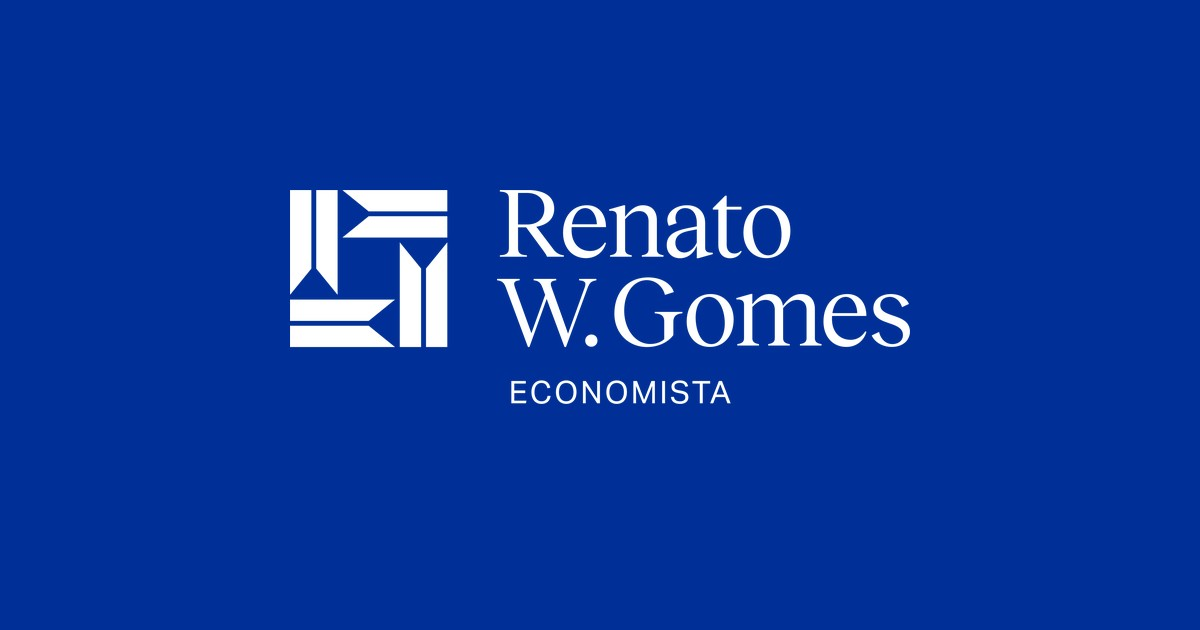
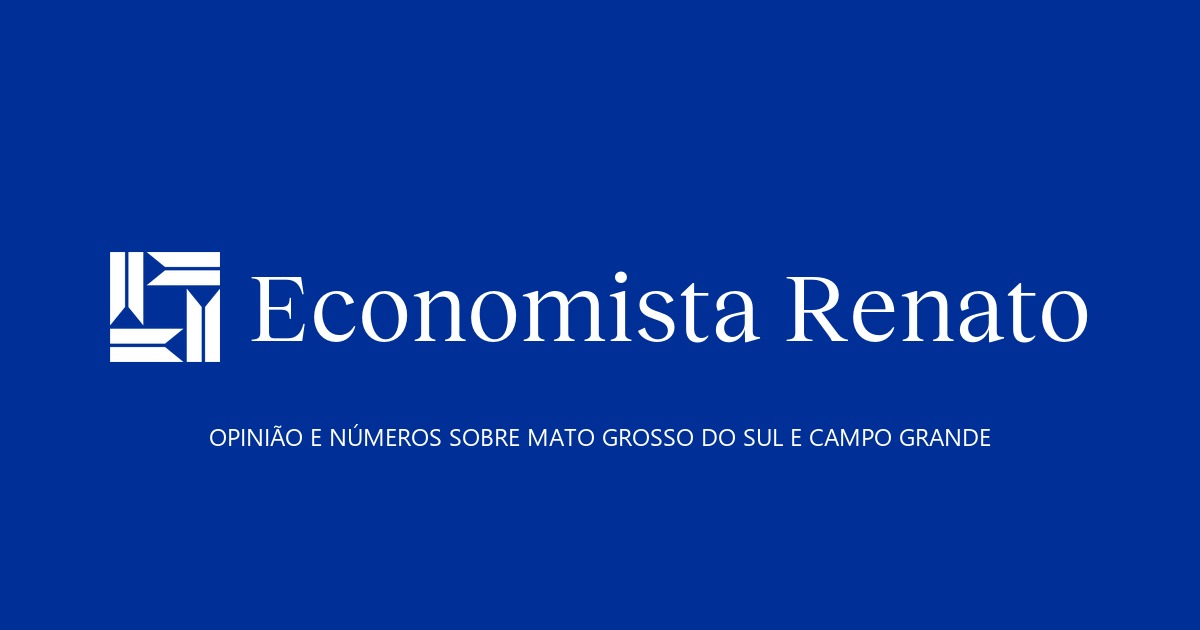
Marca da publicacao passa a ser 'Economista Renato'
E o nome pelo qual ele e conhecido — e o mesmo do dominio e do @. O lockup
antigo (monograma + 'Renato W. Gomes' + tagline ECONOMISTA) saiu do topo das
paginas.

- Novo lockup: monograma do kit + 'Economista Renato' composto em Reckless
  Neue como texto vivo, nao imagem. Versao compacta nas paginas internas e no
  rodape.
- Boletins renomeados: 'Boletim do Economista - Diario Oficial' e
  'Boletim do Economista - Economia de MS'.
- Imagem de Open Graph refeita com o novo nome.
- Navegacao unificada em todas as paginas: Capa, A Coluna, Boletins,
  Bases abertas, Sobre.

O nome civil segue na assinatura das materias e no rodape institucional.

Changed region(s): [[0.2158, 0.3016, 0.925, 0.573], [0.185, 0.6032, 0.8325, 0.7238], [0.0925, 0.3921, 0.185, 0.573]]

diff --git a/site/index.html b/site/index.html
@@ -20,7 +20,7 @@
 <link rel="preconnect" href="https://fonts.gstatic.com" crossorigin>
 <link href="https://fonts.googleapis.com/css2?family=Inter:wght@400;500;600;700&family=Newsreader:ital,opsz,wght@0,6..72,300..700;1,6..72,300..600&display=swap" rel="stylesheet">
 <link rel="preload" href="assets/fontes/reckless-neue-regular.woff2" as="font" type="font/woff2" crossorigin>
-<link rel="stylesheet" href="assets/estilo.css?v=20260927">
+<link rel="stylesheet" href="assets/estilo.css?v=20260927b">
 </head>
 <body>
 
@@ -35,7 +35,7 @@
 
   <div class="env">
     <div class="cabecalho">
-      <a href="/"><img class="marca" src="assets/marca-wordmark.png" alt="Renato W. Gomes — Economista"></a>
+      <a class="marca-lockup" href="/"><img class="marca-simbolo" src="assets/monograma.png" alt=""><span class="marca-nome">Economista Renato</span></a>
       <div class="lema">Opinião e números sobre Mato Grosso do Sul e Campo Grande</div>
       <div class="canto">
         <a class="botao" href="sobre/">Quem sou</a>
@@ -94,14 +94,14 @@
 
   <section class="grade-3">
     <article class="cartao produto">
-      <span class="chapeu">Boletim RWG · Diário Oficial</span>
+      <span class="chapeu">Boletim do Economista · Diário Oficial</span>
       <h3 class="tit tit-g">O que saiu no Diário Oficial da semana</h3>
       <p class="olho">Contrato, aditivo, dispensa de licitação, nomeação e decreto — do governo do estado, da prefeitura de Campo Grande, do Tribunal de Contas e da Assembleia. O que acontece com o dinheiro público antes de virar notícia.</p>
       <span class="selo">Semanal · às sextas</span>
     </article>
 
     <article class="cartao produto">
-      <span class="chapeu dado">Boletim RWG · Economia de MS</span>
+      <span class="chapeu dado">Boletim do Economista · Economia de MS</span>
       <h3 class="tit tit-g">O termômetro da economia do estado</h3>
       <p class="olho">Emprego, arrecadação, preços e comércio exterior, com quadro fixo de Campo Grande e uma região do interior em destaque a cada edição — as quatro regiões, três vezes por ano cada uma.</p>
       <span class="selo">Mensal</span>
@@ -170,7 +170,7 @@
   <div class="env">
     <div class="rodape-grade">
       <div class="rodape-marca">
-        <img src="assets/marca-wordmark.png" alt="Renato W. Gomes — Economista">
+        <a class="marca-lockup compacta" href="/"><img class="marca-simbolo" src="assets/monograma.png" alt=""><span class="marca-nome">Economista Renato</span></a>
         <p class="rodape-texto">Análise independente sobre a economia e as contas públicas de Mato Grosso do Sul. Toda afirmação numérica publicada aqui traz a fonte primária: orçamento, Diário Oficial, portais de transparência, IBGE e órgãos de controle.</p>
       </div>
       <div>

diff --git a/site/artigo/estreia/index.html b/site/artigo/estreia/index.html
@@ -19,22 +19,23 @@
 <link rel="preconnect" href="https://fonts.gstatic.com" crossorigin>
 <link href="https://fonts.googleapis.com/css2?family=Inter:wght@400;500;600;700&family=Newsreader:ital,opsz,wght@0,6..72,300..700;1,6..72,300..600&display=swap" rel="stylesheet">
 <link rel="preload" href="../../assets/fontes/reckless-neue-regular.woff2" as="font" type="font/woff2" crossorigin>
-<link rel="stylesheet" href="../../assets/estilo.css?v=20260927">
+<link rel="stylesheet" href="../../assets/estilo.css?v=20260927b">
 </head>
 <body>
 
 <header>
   <div class="env">
     <div class="cabecalho" style="padding:18px 0 14px">
-      <a href="../../"><img class="marca" src="../../assets/marca-wordmark.png" alt="Renato W. Gomes — Economista" style="width:min(240px,60vw)"></a>
+      <a class="marca-lockup compacta" href="../../"><img class="marca-simbolo" src="../../assets/monograma.png" alt=""><span class="marca-nome">Economista Renato</span></a>
     </div>
   </div>
   <nav class="secoes">
     <div class="env">
       <a href="../../">Capa</a>
-      <a href="./" class="ativo">A coluna</a>
-      <a href="../../#dados">MS em números</a>
-      <a href="../../#pautas">Pautas</a>
+      <a href="./" class="ativo">A Coluna</a>
+      <a href="../../#boletins">Boletins</a>
+      <a href="../../dados/">Bases abertas</a>
+      
       <a href="../../sobre/">Sobre</a>
     </div>
   </nav>
@@ -80,8 +81,8 @@
     <p>Três lugares fixos, para você saber o que esperar e quando:</p>
 
     <ul>
-      <li><b>Boletim RWG · Diário Oficial</b>, toda sexta. O que saiu nos diários do governo do estado, da prefeitura de Campo Grande, do Tribunal de Contas e da Assembleia: contrato, aditivo, dispensa de licitação, nomeação, decreto. É o lugar onde o dinheiro público aparece antes de virar notícia.</li>
-      <li><b>Boletim RWG · Economia de MS</b>, todo mês. Emprego, arrecadação, preços e comércio exterior, com um quadro fixo da capital e uma região do interior em destaque a cada edição.</li>
+      <li><b>Boletim do Economista · Diário Oficial</b>, toda sexta. O que saiu nos diários do governo do estado, da prefeitura de Campo Grande, do Tribunal de Contas e da Assembleia: contrato, aditivo, dispensa de licitação, nomeação, decreto. É o lugar onde o dinheiro público aparece antes de virar notícia.</li>
+      <li><b>Boletim do Economista · Economia de MS</b>, todo mês. Emprego, arrecadação, preços e comércio exterior, com um quadro fixo da capital e uma região do interior em destaque a cada edição.</li>
       <li><b>A Coluna</b>, toda semana. A análise assinada — onde fica a opinião, e só ali.</li>
     </ul>
 

diff --git a/site/dados/icms-gondola-ms/index.html b/site/dados/icms-gondola-ms/index.html
@@ -19,22 +19,22 @@
 <link rel="preconnect" href="https://fonts.gstatic.com" crossorigin>
 <link href="https://fonts.googleapis.com/css2?family=Inter:wght@400;500;600;700&family=Newsreader:ital,opsz,wght@0,6..72,300..700;1,6..72,300..600&display=swap" rel="stylesheet">
 <link rel="preload" href="../../assets/fontes/reckless-neue-regular.woff2" as="font" type="font/woff2" crossorigin>
-<link rel="stylesheet" href="../../assets/estilo.css?v=20260927">
+<link rel="stylesheet" href="../../assets/estilo.css?v=20260927b">
 </head>
 <body>
 
 <header>
   <div class="env">
     <div class="cabecalho" style="padding:18px 0 14px">
-      <a href="../../"><img class="marca" src="../../assets/marca-wordmark.png" alt="Renato W. Gomes — Economista" style="width:min(240px,60vw)"></a>
+      <a class="marca-lockup compacta" href="../../"><img class="marca-simbolo" src="../../assets/monograma.png" alt=""><span class="marca-nome">Economista Renato</span></a>
     </div>
   </div>
   <nav class="secoes">
     <div class="env">
       <a href="../../">Capa</a>
-      <a href="../../artigo/estreia/">A coluna</a>
+      <a href="../../artigo/estreia/">A Coluna</a>
+      <a href="../../#boletins">Boletins</a>
       <a href="../../dados/" class="ativo">Bases abertas</a>
-      <a href="../../#pautas">Pautas</a>
       <a href="../../sobre/">Sobre</a>
     </div>
   </nav>
@@ -81,7 +81,7 @@
   </div>
 </article>
 
-<script src="../../assets/tabela.js?v=20260927"></script>
+<script src="../../assets/tabela.js?v=20260927b"></script>
 
 <footer>
   <div class="env">

diff --git a/site/dados/municipios-ms/index.html b/site/dados/municipios-ms/index.html
@@ -19,22 +19,22 @@
 <link rel="preconnect" href="https://fonts.gstatic.com" crossorigin>
 <link href="https://fonts.googleapis.com/css2?family=Inter:wght@400;500;600;700&family=Newsreader:ital,opsz,wght@0,6..72,300..700;1,6..72,300..600&display=swap" rel="stylesheet">
 <link rel="preload" href="../../assets/fontes/reckless-neue-regular.woff2" as="font" type="font/woff2" crossorigin>
-<link rel="stylesheet" href="../../assets/estilo.css?v=20260927">
+<link rel="stylesheet" href="../../assets/estilo.css?v=20260927b">
 </head>
 <body>
 
 <header>
   <div class="env">
     <div class="cabecalho" style="padding:18px 0 14px">
-      <a href="../../"><img class="marca" src="../../assets/marca-wordmark.png" alt="Renato W. Gomes — Economista" style="width:min(240px,60vw)"></a>
+      <a class="marca-lockup compacta" href="../../"><img class="marca-simbolo" src="../../assets/monograma.png" alt=""><span class="marca-nome">Economista Renato</span></a>
     </div>
   </div>
   <nav class="secoes">
     <div class="env">
       <a href="../../">Capa</a>
-      <a href="../../artigo/estreia/">A coluna</a>
+      <a href="../../artigo/estreia/">A Coluna</a>
+      <a href="../../#boletins">Boletins</a>
       <a href="../../dados/" class="ativo">Bases abertas</a>
-      <a href="../../#pautas">Pautas</a>
       <a href="../../sobre/">Sobre</a>
     </div>
   </nav>
@@ -81,7 +81,7 @@
   </div>
 </article>
 
-<script src="../../assets/tabela.js?v=20260927"></script>
+<script src="../../assets/tabela.js?v=20260927b"></script>
 
 <footer>
   <div class="env">

diff --git a/site/dados/renuncia-fiscal-ms-2026/index.html b/site/dados/renuncia-fiscal-ms-2026/index.html
@@ -19,22 +19,22 @@
 <link rel="preconnect" href="https://fonts.gstatic.com" crossorigin>
 <link href="https://fonts.googleapis.com/css2?family=Inter:wght@400;500;600;700&family=Newsreader:ital,opsz,wght@0,6..72,300..700;1,6..72,300..600&display=swap" rel="stylesheet">
 <link rel="preload" href="../../assets/fontes/reckless-neue-regular.woff2" as="font" type="font/woff2" crossorigin>
-<link rel="stylesheet" href="../../assets/estilo.css?v=20260927">
+<link rel="stylesheet" href="../../assets/estilo.css?v=20260927b">
 </head>
 <body>
 
 <header>
   <div class="env">
     <div class="cabecalho" style="padding:18px 0 14px">
-      <a href="../../"><img class="marca" src="../../assets/marca-wordmark.png" alt="Renato W. Gomes — Economista" style="width:min(240px,60vw)"></a>
+      <a class="marca-lockup compacta" href="../../"><img class="marca-simbolo" src="../../assets/monograma.png" alt=""><span class="marca-nome">Economista Renato</span></a>
     </div>
   </div>
   <nav class="secoes">
     <div class="env">
       <a href="../../">Capa</a>
-      <a href="../../artigo/estreia/">A coluna</a>
+      <a href="../../artigo/estreia/">A Coluna</a>
+      <a href="../../#boletins">Boletins</a>
       <a href="../../dados/" class="ativo">Bases abertas</a>
-      <a href="../../#pautas">Pautas</a>
       <a href="../../sobre/">Sobre</a>
     </div>
   </nav>
@@ -81,7 +81,7 @@
   </div>
 </article>
 
-<script src="../../assets/tabela.js?v=20260927"></script>
+<script src="../../assets/tabela.js?v=20260927b"></script>
 
 <footer>
   <div class="env">

diff --git a/site/dados/rodovias-ms/index.html b/site/dados/rodovias-ms/index.html
@@ -19,22 +19,22 @@
 <link rel="preconnect" href="https://fonts.gstatic.com" crossorigin>
 <link href="https://fonts.googleapis.com/css2?family=Inter:wght@400;500;600;700&family=Newsreader:ital,opsz,wght@0,6..72,300..700;1,6..72,300..600&display=swap" rel="stylesheet">
 <link rel="preload" href="../../assets/fontes/reckless-neue-regular.woff2" as="font" type="font/woff2" crossorigin>
-<link rel="stylesheet" href="../../assets/estilo.css?v=20260927">
+<link rel="stylesheet" href="../../assets/estilo.css?v=20260927b">
 </head>
 <body>
 
 <header>
   <div class="env">
     <div class="cabecalho" style="padding:18px 0 14px">
-      <a href="../../"><img class="marca" src="../../assets/marca-wordmark.png" alt="Renato W. Gomes — Economista" style="width:min(240px,60vw)"></a>
+      <a class="marca-lockup compacta" href="../../"><img class="marca-simbolo" src="../../assets/monograma.png" alt=""><span class="marca-nome">Economista Renato</span></a>
     </div>
   </div>
   <nav class="secoes">
     <div class="env">
       <a href="../../">Capa</a>
-      <a href="../../artigo/estreia/">A coluna</a>
+      <a href="../../artigo/estreia/">A Coluna</a>
+      <a href="../../#boletins">Boletins</a>
       <a href="../../dados/" class="ativo">Bases abertas</a>
-      <a href="../../#pautas">Pautas</a>
       <a href="../../sobre/">Sobre</a>
     </div>
   </nav>
@@ -81,7 +81,7 @@
   </div>
 </article>
 
-<script src="../../assets/tabela.js?v=20260927"></script>
+<script src="../../assets/tabela.js?v=20260927b"></script>
 
 <footer>
   <div class="env">

diff --git a/site/sobre/index.html b/site/sobre/index.html
@@ -19,22 +19,23 @@
 <link rel="preconnect" href="https://fonts.gstatic.com" crossorigin>
 <link href="https://fonts.googleapis.com/css2?family=Inter:wght@400;500;600;700&family=Newsreader:ital,opsz,wght@0,6..72,300..700;1,6..72,300..600&display=swap" rel="stylesheet">
 <link rel="preload" href="../assets/fontes/reckless-neue-regular.woff2" as="font" type="font/woff2" crossorigin>
-<link rel="stylesheet" href="../assets/estilo.css?v=20260927">
+<link rel="stylesheet" href="../assets/estilo.css?v=20260927b">
 </head>
 <body>
 
 <header>
   <div class="env">
     <div class="cabecalho" style="padding:18px 0 14px">
-      <a href="../"><img class="marca" src="../assets/marca-wordmark.png" alt="Renato W. Gomes — Economista" style="width:min(240px,60vw)"></a>
+      <a class="marca-lockup compacta" href="../"><img class="marca-simbolo" src="../assets/monograma.png" alt=""><span class="marca-nome">Economista Renato</span></a>
     </div>
   </div>
   <nav class="secoes">
     <div class="env">
       <a href="../">Capa</a>
-      <a href="../artigo/estreia/">A coluna</a>
-      <a href="../#dados">MS em números</a>
-      <a href="../#pautas">Pautas</a>
+      <a href="../artigo/estreia/">A Coluna</a>
+      <a href="../#boletins">Boletins</a>
+      <a href="../dados/">Bases abertas</a>
+      
       <a href="./" class="ativo">Sobre</a>
     </div>
   </nav>

diff --git a/site/dados/index.html b/site/dados/index.html
@@ -19,22 +19,22 @@
 <link rel="preconnect" href="https://fonts.gstatic.com" crossorigin>
 <link href="https://fonts.googleapis.com/css2?family=Inter:wght@400;500;600;700&family=Newsreader:ital,opsz,wght@0,6..72,300..700;1,6..72,300..600&display=swap" rel="stylesheet">
 <link rel="preload" href="../assets/fontes/reckless-neue-regular.woff2" as="font" type="font/woff2" crossorigin>
-<link rel="stylesheet" href="../assets/estilo.css?v=20260927">
+<link rel="stylesheet" href="../assets/estilo.css?v=20260927b">
 </head>
 <body>
 
 <header>
   <div class="env">
     <div class="cabecalho" style="padding:18px 0 14px">
-      <a href="../"><img class="marca" src="../assets/marca-wordmark.png" alt="Renato W. Gomes — Economista" style="width:min(240px,60vw)"></a>
+      <a class="marca-lockup compacta" href="../"><img class="marca-simbolo" src="../assets/monograma.png" alt=""><span class="marca-nome">Economista Renato</span></a>
     </div>
   </div>
   <nav class="secoes">
     <div class="env">
       <a href="../">Capa</a>
-      <a href="../artigo/estreia/">A coluna</a>
+      <a href="../artigo/estreia/">A Coluna</a>
+      <a href="../#boletins">Boletins</a>
       <a href="../dados/" class="ativo">Bases abertas</a>
-      <a href="../#pautas">Pautas</a>
       <a href="../sobre/">Sobre</a>
     </div>
   </nav>

diff --git a/site/assets/estilo.css b/site/assets/estilo.css
@@ -446,3 +446,19 @@ footer{border-top:2px solid var(--tinta);margin-top:56px;padding:38px 0 60px}
 @media(max-width:1080px){
   .capa-dupla{grid-template-columns:1fr}
 }
+
+/* ==========================================================================
+   LOCKUP DA PUBLICACAO — monograma + "Economista Renato" na letra da marca
+   ========================================================================== */
+.marca-lockup{display:inline-flex;align-items:center;gap:clamp(10px,1.4vw,18px);text-decoration:none}
+.marca-simbolo{width:clamp(36px,4.6vw,52px);height:auto;flex:none}
+.marca-nome{
+  font-family:var(--display);font-weight:400;font-synthesis-weight:none;
+  font-size:clamp(1.9rem,4.4vw,3.1rem);line-height:1;letter-spacing:-.022em;color:var(--tinta);
+  white-space:nowrap;
+}
+.marca-lockup.compacta .marca-simbolo{width:30px}
+.marca-lockup.compacta .marca-nome{font-size:clamp(1.25rem,3vw,1.6rem)}
+.rodape-marca .marca-lockup{margin-bottom:14px}
+.rodape-marca .marca-simbolo{width:28px}
+.rodape-marca .marca-nome{font-size:1.4rem}

diff --git a/site/obrigado/index.html b/site/obrigado/index.html
@@ -10,14 +10,14 @@
 <link rel="preconnect" href="https://fonts.gstatic.com" crossorigin>
 <link href="https://fonts.googleapis.com/css2?family=Inter:wght@400;500;600;700&family=Newsreader:ital,opsz,wght@0,6..72,300..700;1,6..72,300..600&display=swap" rel="stylesheet">
 <link rel="preload" href="../assets/fontes/reckless-neue-regular.woff2" as="font" type="font/woff2" crossorigin>
-<link rel="stylesheet" href="../assets/estilo.css?v=20260927">
+<link rel="stylesheet" href="../assets/estilo.css?v=20260927b">
 </head>
 <body>
 
 <header>
   <div class="env">
     <div class="cabecalho" style="padding:18px 0 14px">
-      <a href="../"><img class="marca" src="../assets/marca-wordmark.png" alt="Renato W. Gomes — Economista" style="width:min(240px,60vw)"></a>
+      <a class="marca-lockup compacta" href="../"><img class="marca-simbolo" src="../assets/monograma.png" alt=""><span class="marca-nome">Economista Renato</span></a>
     </div>
   </div>
 </header>

diff --git a/scripts/gera_dados.py b/scripts/gera_dados.py
@@ -368,22 +368,22 @@ CABECA = u"""<!DOCTYPE html>
 <link rel="preconnect" href="https://fonts.gstatic.com" crossorigin>
 <link href="https://fonts.googleapis.com/css2?family=Inter:wght@400;500;600;700&family=Newsreader:ital,opsz,wght@0,6..72,300..700;1,6..72,300..600&display=swap" rel="stylesheet">
 <link rel="preload" href="{r}assets/fontes/reckless-neue-regular.woff2" as="font" type="font/woff2" crossorigin>
-<link rel="stylesheet" href="{r}assets/estilo.css?v=20260925b">
+<link rel="stylesheet" href="{r}assets/estilo.css?v=20260927b">
 </head>
 <body>
 
 <header>
   <div class="env">
     <div class="cabecalho" style="padding:18px 0 14px">
-      <a href="{r}"><img class="marca" src="{r}assets/marca-wordmark.png" alt="Renato W. Gomes — Economista" style="width:min(240px,60vw)"></a>
+      <a class="marca-lockup compacta" href="{r}"><img class="marca-simbolo" src="{r}assets/monograma.png" alt=""><span class="marca-nome">Economista Renato</span></a>
     </div>
   </div>
   <nav class="secoes">
     <div class="env">
       <a href="{r}">Capa</a>
-      <a href="{r}artigo/estreia/">A coluna</a>
+      <a href="{r}artigo/estreia/">A Coluna</a>
+      <a href="{r}#boletins">Boletins</a>
       <a href="{r}dados/" class="ativo">Bases abertas</a>
-      <a href="{r}#pautas">Pautas</a>
       <a href="{r}sobre/">Sobre</a>
     </div>
   </nav>
@@ -476,7 +476,7 @@ def pagina_base(meta):
   </div>
 </article>
 
-<script src="{r}assets/tabela.js?v=20260925b"></script>
+<script src="{r}assets/tabela.js?v=20260927b"></script>
 """
     html = (CABECA.format(titulo=meta["titulo"], resumo=meta["resumo"],
                           canonico=meta["slug"] + "/", r="../../") +
